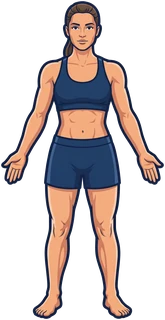
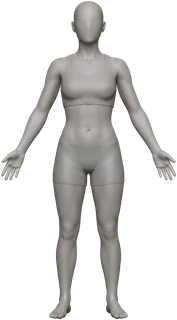
Mensurations : mannequin gris pierre sans visage ni couleur de peau, homme et femme
Demande de Houari : personne ne doit se sentir exclu. Les deux corps colorés sont remplacés
par un mannequin d'anatomie lisse, un seul ton gris pierre, tête sans visage ni cheveux,
short et brassière du même ton. Générés avec Gemini, détourés, WebP 1x 2x 3x.
Les dix traits de mesure sont recalés sur le nouveau contour. Sur petit écran le corps
rétrécit un peu pour que les étiquettes tiennent en entier. Version couleur archivée.

Claude-Session: https://claude.ai/code/session_01MBUGLkxL9svd2kQBWm6F75

diff --git a/components/yoroi/v2/progres/Silhouette.tsx b/components/yoroi/v2/progres/Silhouette.tsx
@@ -1,6 +1,7 @@
 /**
  * Corps illustre avec les mensurations posees autour (30 octobre 2026, remplace l'ancien bonhomme gris).
- * L'illustration suit le genre du profil : homme, ou femme (assets/corps/mensurations, generees avec Gemini).
+ * Mannequin d'anatomie lisse, un seul ton gris pierre, sans visage ni couleur de peau, pour que personne ne se sente exclu.
+ * Il suit le genre du profil : homme, ou femme (assets/corps/mensurations, generes avec Gemini).
  * Chaque mesure a son trait en pointilles pose sur le corps et une etiquette sobre :
  * le nom, la valeur et l'ecart avec la fois d'avant. En saisie, toucher une etiquette la selectionne.
  */
@@ -20,42 +21,42 @@ type Pt = [number, number];
 type Zone = { l: Pt; r: Pt; creux: number; side: 'left' | 'right' };
 type Corps = { src: ImageSourcePropType; w: number; h: number; zones: Record<ViewKey, Zone> };
 
-// Coordonnees en pixels de l'illustration detouree (homme 1253 x 2410, femme 1243 x 2411),
-// relevees sur le contour reel du dessin : bord de peau a l'interieur du trait bleu nuit.
+// Coordonnees en pixels de l'illustration detouree (homme 1312 x 2388, femme 1322 x 2388),
+// relevees sur le contour reel du mannequin.
 const HOMME: Corps = {
   src: require('@/assets/corps/mensurations/homme.webp'),
-  w: 1253,
-  h: 2410,
+  w: 1312,
+  h: 2388,
   zones: {
-    neck: { l: [540, 386], r: [713, 386], creux: 16, side: 'right' },
-    shoulders: { l: [290, 600], r: [963, 600], creux: -30, side: 'left' },
-    chest: { l: [408, 690], r: [846, 690], creux: 30, side: 'left' },
-    arm: { l: [872, 748], r: [1004, 744], creux: 12, side: 'right' },
+    neck: { l: [578, 335], r: [734, 335], creux: 14, side: 'right' },
+    shoulders: { l: [310, 610], r: [1003, 610], creux: -30, side: 'left' },
+    chest: { l: [428, 660], r: [882, 660], creux: 30, side: 'left' },
+    arm: { l: [896, 717], r: [1040, 713], creux: 12, side: 'right' },
     // Avant-bras : sous le coude, au plus large, sur le meme bras que le tour de bras, trait perpendiculaire au bras
-    forearm: { l: [928, 984], r: [1082, 938], creux: 12, side: 'right' },
-    waist: { l: [440, 882], r: [813, 882], creux: 26, side: 'left' },
-    navel: { l: [434, 950], r: [819, 950], creux: 28, side: 'right' },
-    hips: { l: [364, 1330], r: [889, 1330], creux: 34, side: 'left' },
-    thigh: { l: [668, 1515], r: [888, 1515], creux: 16, side: 'right' },
-    calf: { l: [350, 1872], r: [525, 1872], creux: 14, side: 'left' },
+    forearm: { l: [986, 941], r: [1130, 899], creux: 12, side: 'right' },
+    waist: { l: [474, 870], r: [839, 870], creux: 26, side: 'left' },
+    navel: { l: [466, 940], r: [846, 940], creux: 28, side: 'right' },
+    hips: { l: [420, 1270], r: [894, 1270], creux: 34, side: 'left' },
+    thigh: { l: [680, 1410], r: [900, 1410], creux: 16, side: 'right' },
+    calf: { l: [416, 1895], r: [570, 1895], creux: 14, side: 'left' },
   },
 };
 
 const FEMME: Corps = {
   src: require('@/assets/corps/mensurations/femme.webp'),
-  w: 1243,
-  h: 2411,
+  w: 1322,
+  h: 2388,
   zones: {
-    neck: { l: [554, 398], r: [697, 398], creux: 14, side: 'right' },
-    shoulders: { l: [295, 605], r: [948, 605], creux: -30, side: 'left' },
-    chest: { l: [404, 730], r: [838, 730], creux: 30, side: 'left' },
-    arm: { l: [854, 744], r: [978, 740], creux: 12, side: 'right' },
-    forearm: { l: [906, 984], r: [1060, 938], creux: 12, side: 'right' },
-    waist: { l: [449, 915], r: [794, 915], creux: 24, side: 'left' },
-    navel: { l: [430, 990], r: [813, 990], creux: 28, side: 'right' },
-    hips: { l: [346, 1330], r: [897, 1330], creux: 34, side: 'left' },
-    thigh: { l: [656, 1472], r: [892, 1472], creux: 16, side: 'right' },
-    calf: { l: [346, 1890], r: [516, 1890], creux: 14, side: 'left' },
+    neck: { l: [592, 340], r: [730, 340], creux: 12, side: 'right' },
+    shoulders: { l: [340, 615], r: [983, 615], creux: -30, side: 'left' },
+    chest: { l: [452, 690], r: [871, 690], creux: 30, side: 'left' },
+    arm: { l: [898, 714], r: [1018, 710], creux: 12, side: 'right' },
+    forearm: { l: [993, 944], r: [1119, 906], creux: 12, side: 'right' },
+    waist: { l: [495, 885], r: [827, 885], creux: 24, side: 'left' },
+    navel: { l: [472, 970], r: [851, 970], creux: 28, side: 'right' },
+    hips: { l: [400, 1265], r: [922, 1265], creux: 34, side: 'left' },
+    thigh: { l: [688, 1405], r: [917, 1405], creux: 16, side: 'right' },
+    calf: { l: [422, 1900], r: [570, 1900], creux: 14, side: 'left' },
   },
 };
 
@@ -94,6 +95,8 @@ type Props = {
 };
 
 const CALLOUT_H = 42;
+/** largeur minimale d'une colonne d'etiquettes */
+const COL_MIN = 92;
 const BLEU = '#3D5D9E';
 
 function spread(ys: number[], min: number, max: number, gap: number): number[] {
@@ -118,12 +121,14 @@ export function Silhouette({ items, height = 310, active = null, onPressItem }: 
   const c = theme.colors;
   const corps = useCorps();
   const [width, setWidth] = useState(0);
-  const imgH = height - 10;
+  // Le corps retrecit un peu sur petit ecran pour laisser la place aux etiquettes (« à mesurer » en entier)
+  const imgH = Math.min(height - 10, (Math.max(0, width - 2 * COL_MIN - 16) * corps.h) / corps.w);
+  const top0 = (height - imgH) / 2;
   const s = imgH / corps.h;
   const bodyW = corps.w * s;
   const bodyX = (width - bodyW) / 2;
   const colW = Math.max(bodyX - 8, 64);
-  const at = (p: Pt): Pt => [bodyX + p[0] * s, 5 + p[1] * s];
+  const at = (p: Pt): Pt => [bodyX + p[0] * s, top0 + p[1] * s];
 
   const placed = useMemo(() => {
     const out: { item: SilhouetteItem; side: 'left' | 'right'; top: number; anchor: Pt }[] = [];
@@ -133,7 +138,7 @@ export function Silhouette({ items, height = 310, active = null, onPressItem }: 
         .map((it) => {
           const z = corps.zones[it.key];
           const p = side === 'left' ? z.l : z.r;
-          return { item: it, anchor: [bodyX + p[0] * s, 5 + p[1] * s] as Pt };
+          return { item: it, anchor: at(p) };
         })
         .sort((a, b) => a.anchor[1] - b.anchor[1]);
       const tops = spread(
@@ -145,7 +150,7 @@ export function Silhouette({ items, height = 310, active = null, onPressItem }: 
       list.forEach((l, i) => out.push({ ...l, side, top: tops[i] }));
     });
     return out;
-  }, [items, bodyX, s, height, corps]);
+  }, [items, bodyX, s, top0, height, corps]);
 
   const onLayout = (e: LayoutChangeEvent) => setWidth(Math.round(e.nativeEvent.layout.width));
 
@@ -176,7 +181,7 @@ export function Silhouette({ items, height = 310, active = null, onPressItem }: 
           ) : null}
           <Image
             source={corps.src}
-            style={{ position: 'absolute', left: bodyX, top: 5, width: bodyW, height: imgH }}
+            style={{ position: 'absolute', left: bodyX, top: top0, width: bodyW, height: imgH }}
             resizeMode="contain"
             accessibilityIgnoresInvertColors
             accessible={false}
